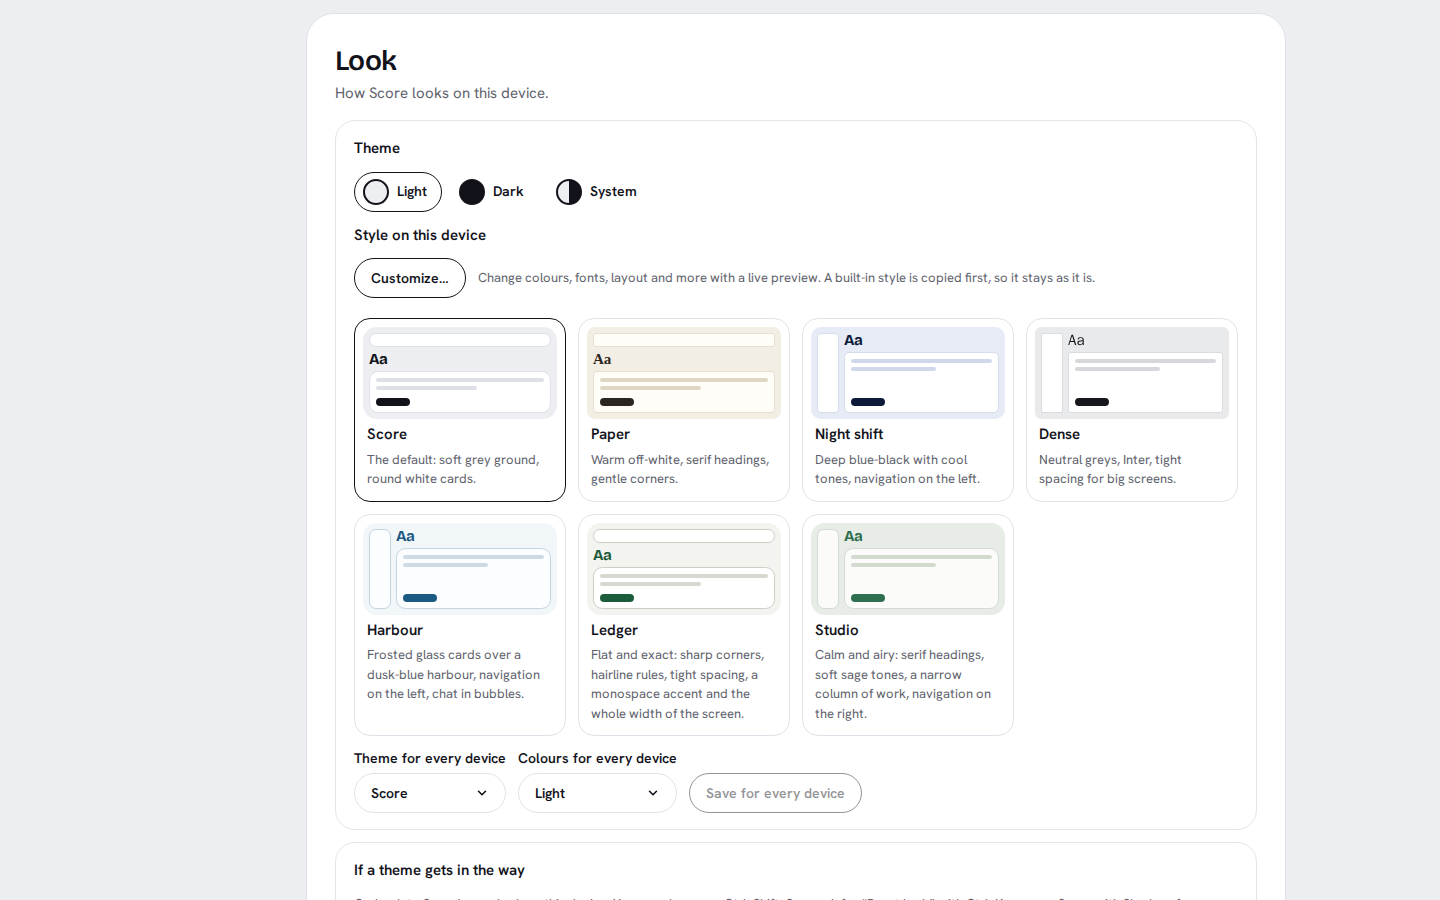
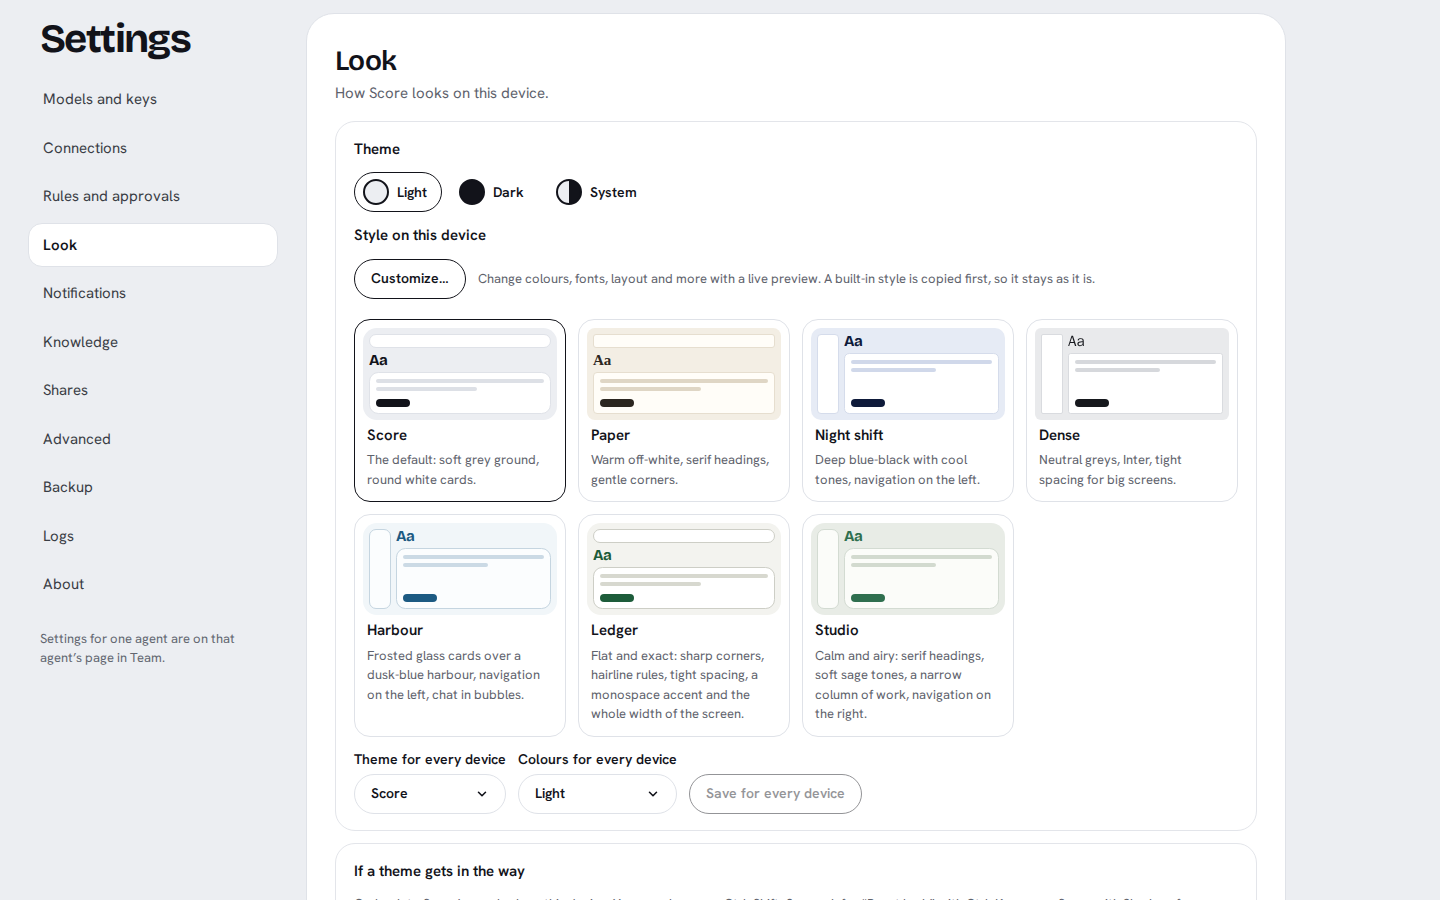
10.1: USER-GUIDE Settings pages, README Settings and Look images, server serves /settings/* deep links

diff --git a/apps/server/test/serve-web.test.ts b/apps/server/test/serve-web.test.ts
@@ -39,6 +39,12 @@ test('local mode serves the built web app next to the API and keeps unknown API 
   const page = await server.app.inject({ method: 'GET', url: '/now' })
   expect(page.statusCode).toBe(200)
   expect(page.headers['content-type']).toContain('text/html')
+  // Settings sections are app routes (PLAN 10.1), with or without a query.
+  for (const url of ['/settings/logs', '/settings/remote-access', '/settings?look=safe']) {
+    const section = await server.app.inject({ method: 'GET', url })
+    expect(section.statusCode).toBe(200)
+    expect(section.headers['content-type']).toContain('text/html')
+  }
   const note = await server.app.inject({ method: 'GET', url: '/knowledge/a/Plan%20B.md' })
   expect(note.statusCode).toBe(200)
   expect(note.headers['content-type']).toContain('text/html')

diff --git a/docs/USER-GUIDE.md b/docs/USER-GUIDE.md
@@ -316,7 +316,13 @@ usage data (read-only), so spend appears only when Hermes records a cost.
 
 ## Settings
 
-A navigation list on the left, one card per section. Settings for a single agent are on its Team page.
+A list of sections on the left, and **one section per page**: choosing one opens `/settings/<section>` (for example
+`/settings/logs`) with only that section's cards, so Models, Connections and Logs no longer stack into one long column.
+The page opens on its heading, and the browser's back and forward buttons move between sections. On a phone the
+**Section** picker names the current section and switches it. **Ctrl+K** (or the search button) lists every section
+too ("Settings: Logs"). **Remote access** shows in the list when Score is served over HTTPS and **Terminal** when the
+web terminal is on. Old bookmarks of the form `/settings#look` still work and open the matching section. Settings for a
+single agent are on its Team page.
 
 - **Models and keys.** Providers with their status (connected or not) and which agents use them. **Connect** (or
   **Edit**) shows a command for you to run in a terminal; Score never asks for or stores a key or runs a sign-in
